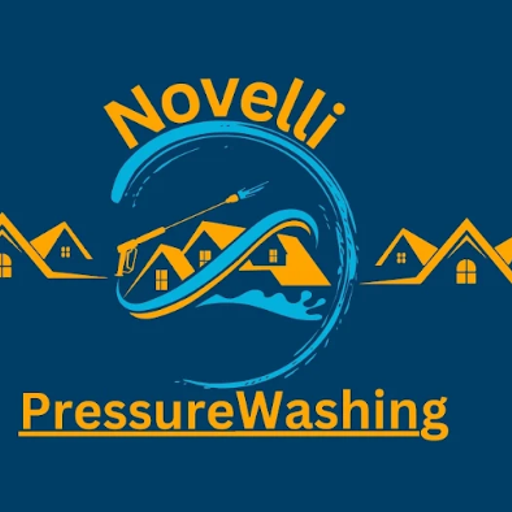
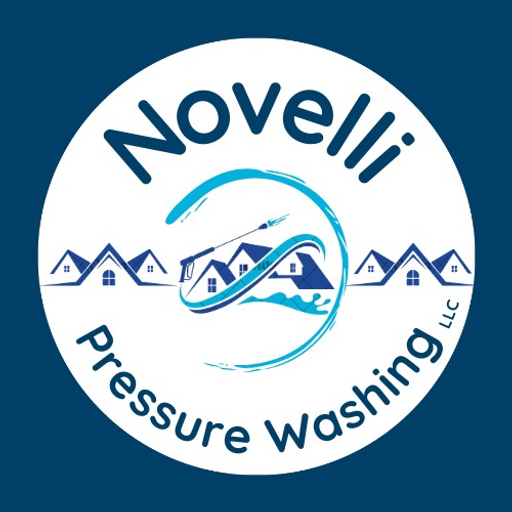
Finished for the day

diff --git a/src/components/layout/Header.tsx b/src/components/layout/Header.tsx
@@ -30,7 +30,7 @@ const Header = () => {
         <Link href="/" className="flex items-center gap-3">
           <div className="relative h-12 w-12 rounded-full overflow-hidden">
             <Image 
-              src="https://res.cloudinary.com/di4phdven/image/upload/v1747259383/Novellinator_kdm2vi.webp" 
+              src="https://res.cloudinary.com/di4phdven/image/upload/v1747261599/IMG_2865_rtwynx.jpg" 
               alt={siteConfig.businessInfo.name} 
               fill
               style={{ objectFit: 'cover' }}
